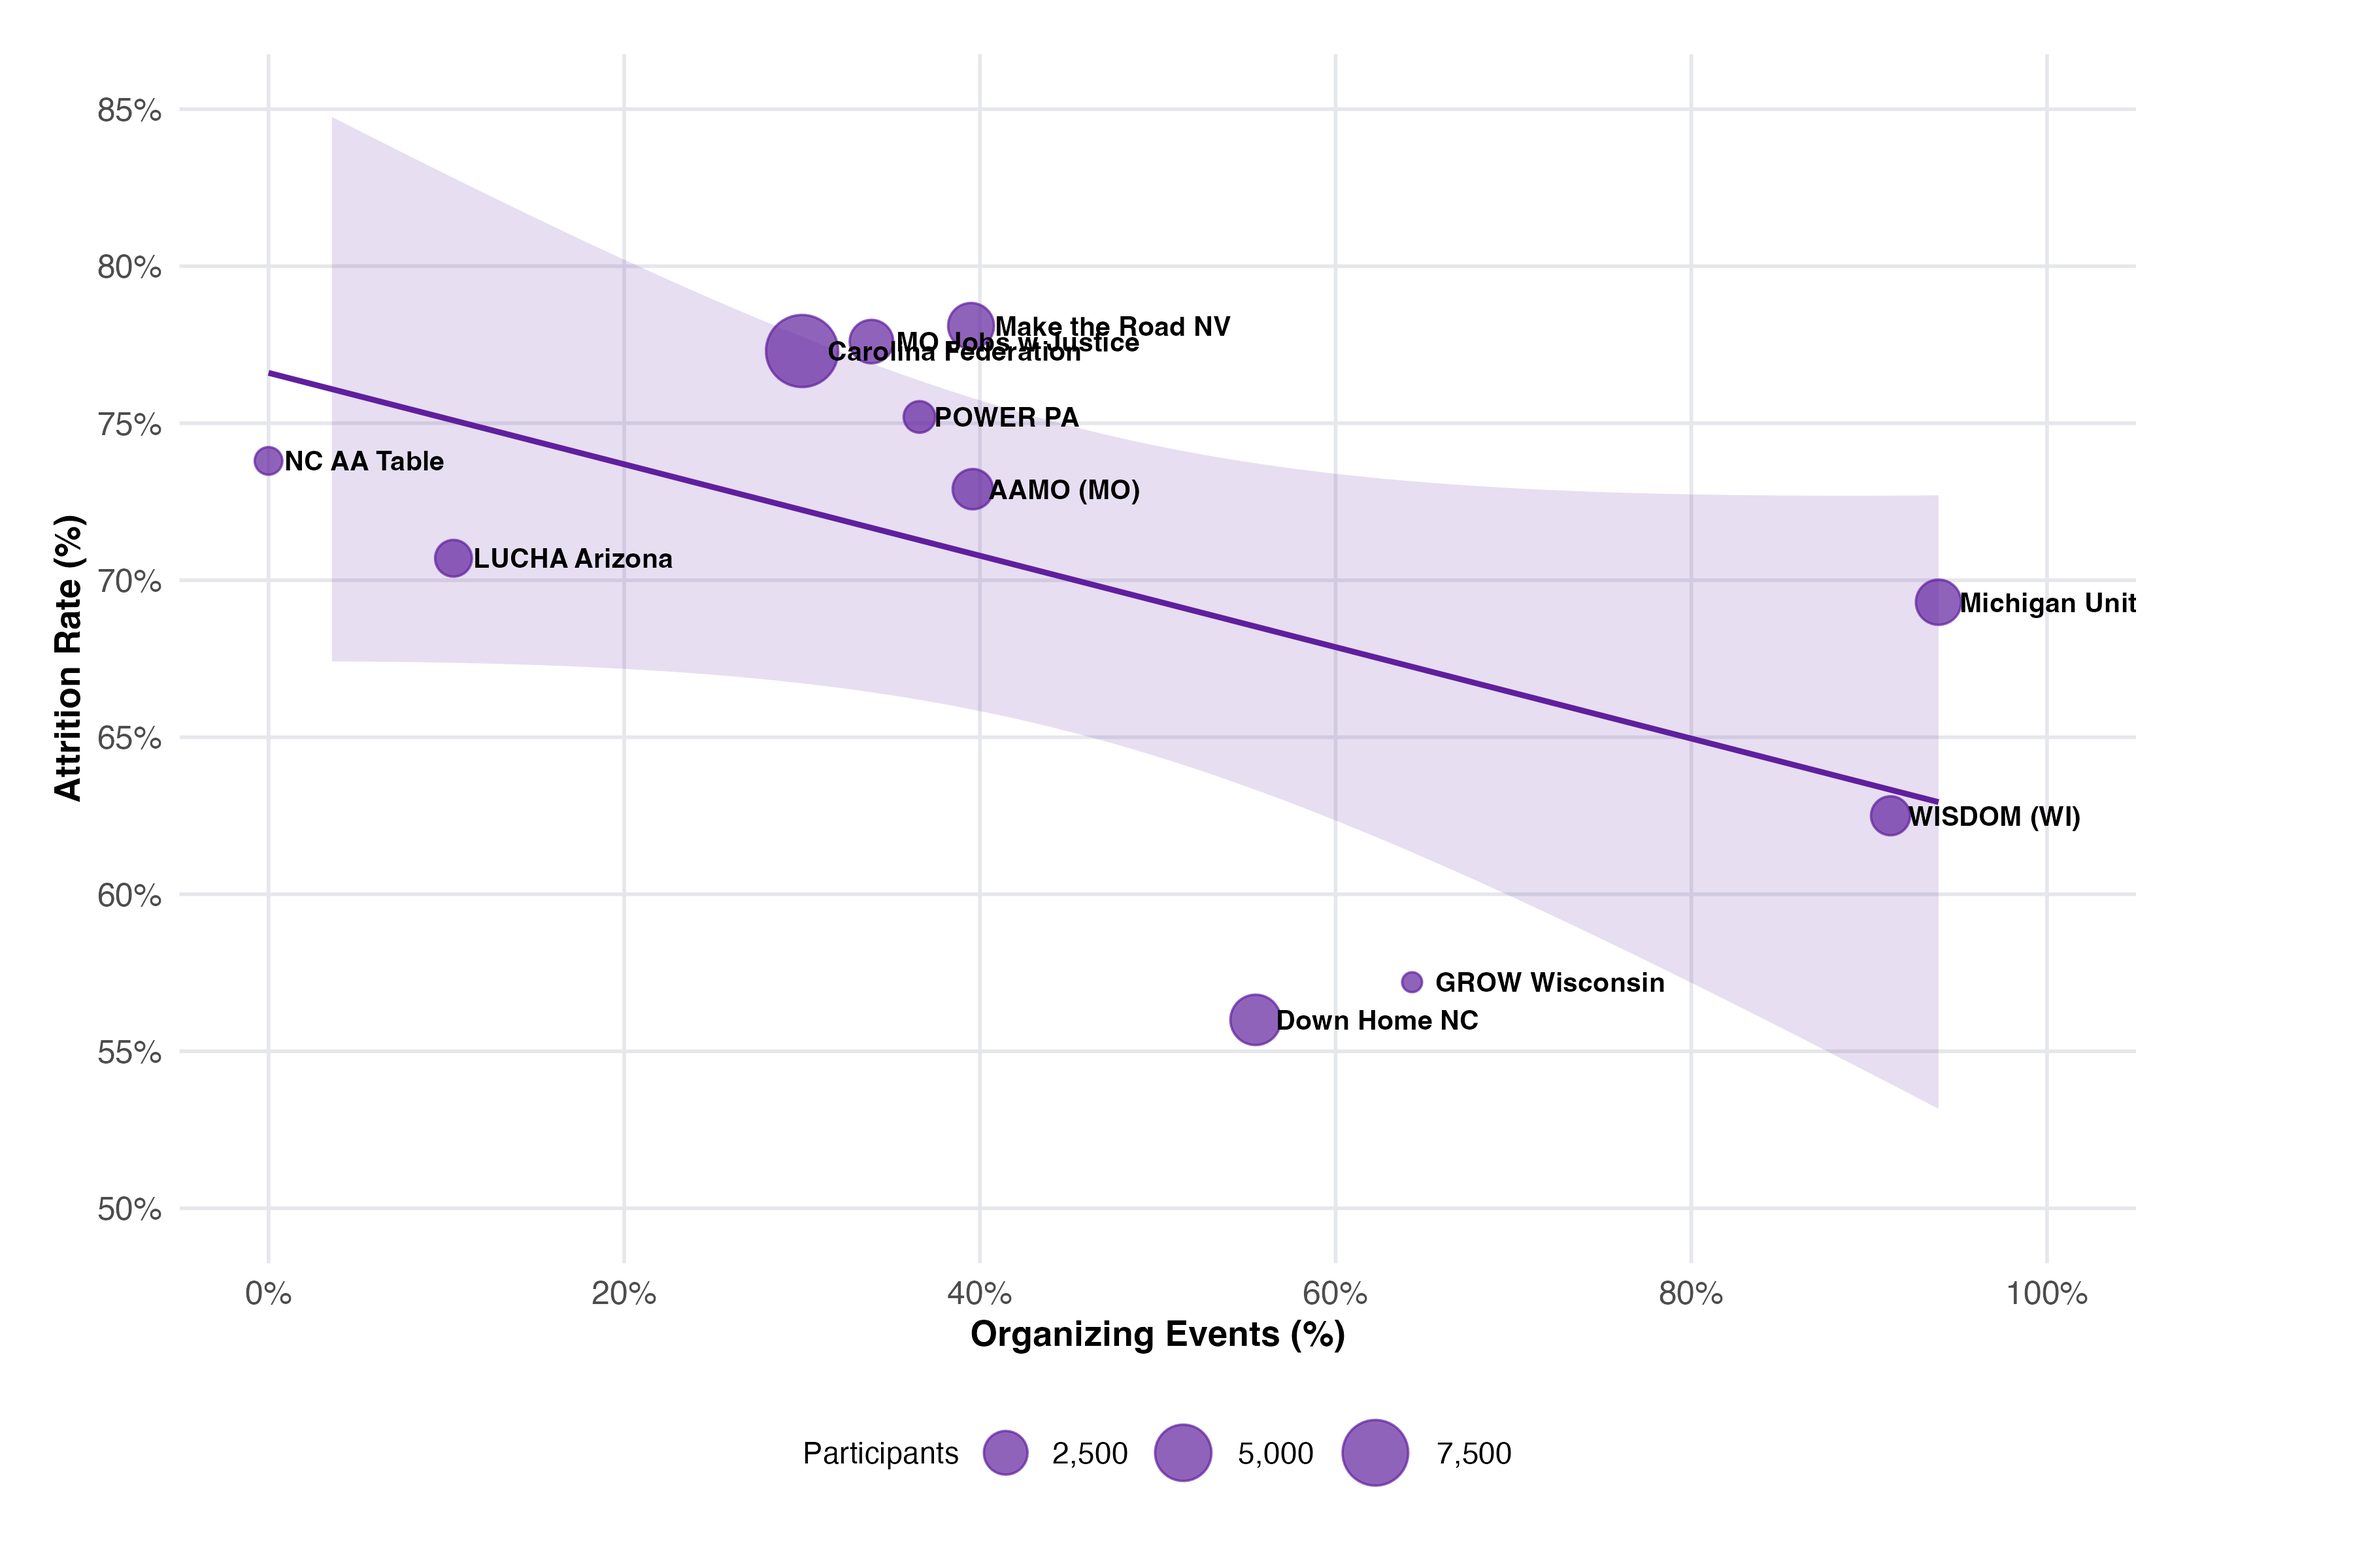
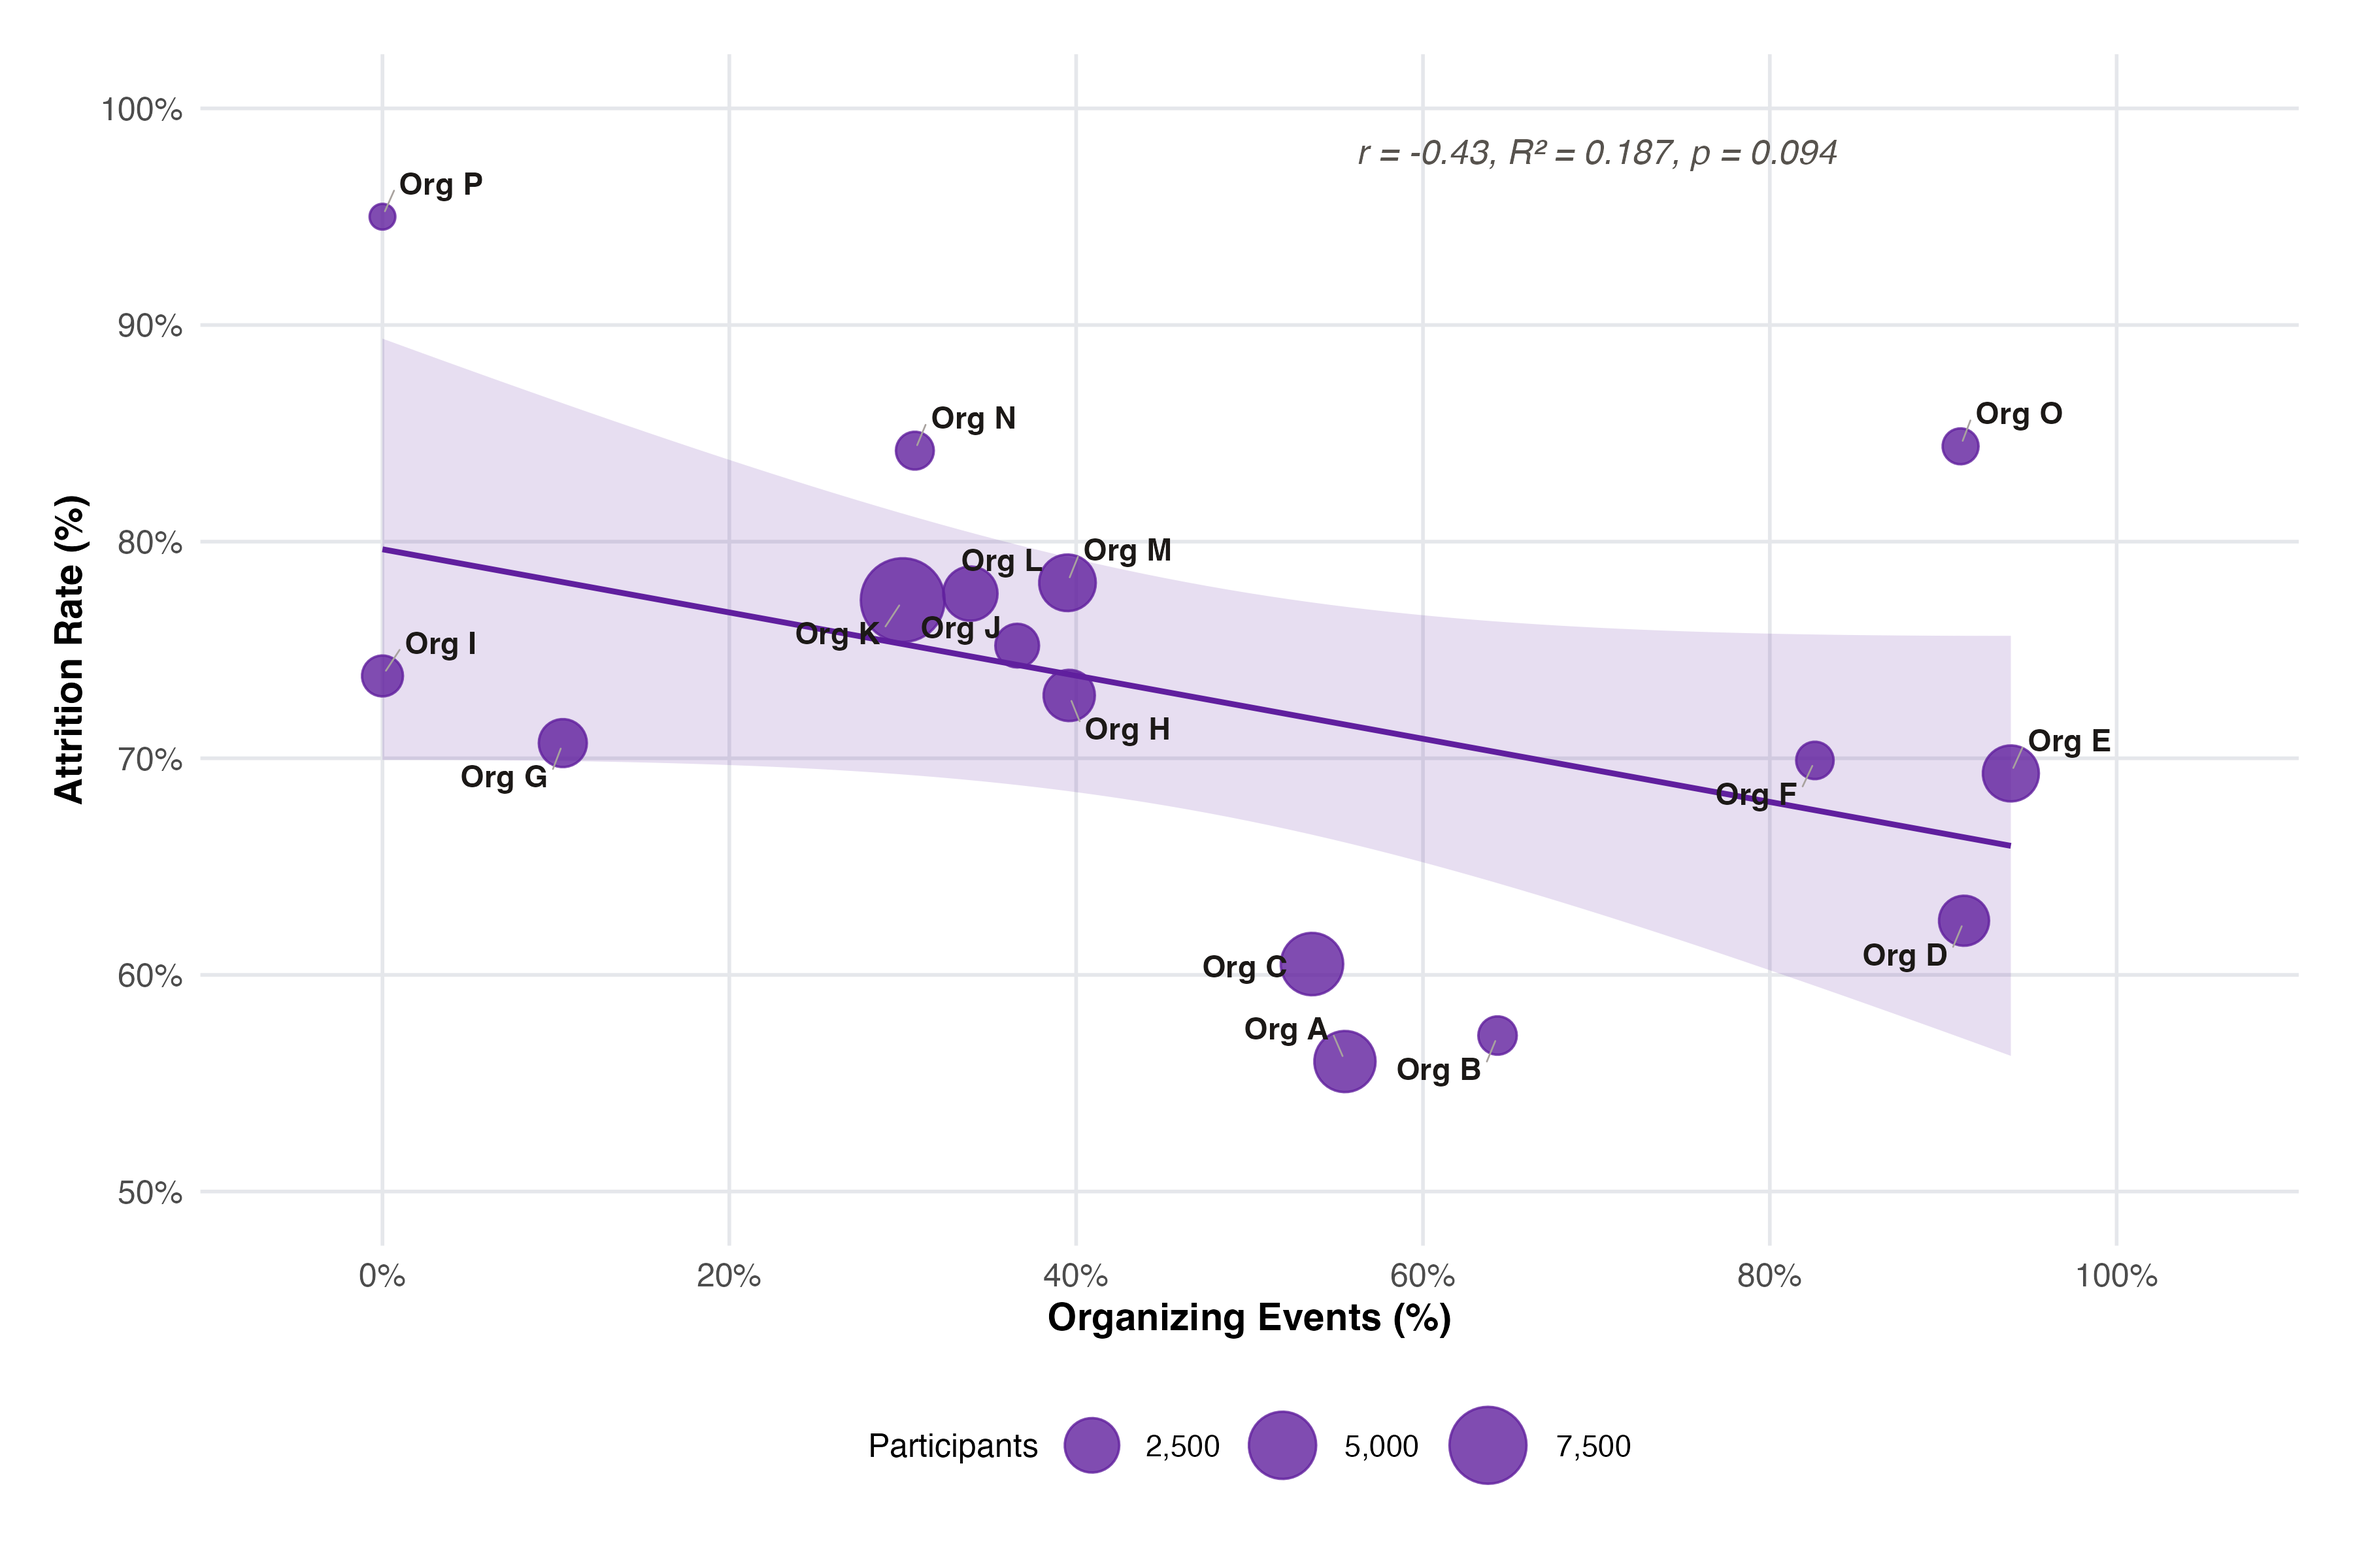
Add person-level attrition analysis and fix state outlines
- Add person-level attrition analysis (N=32,613): first event type → return
  - Chi-squared test: χ² = 197, p < 0.001
  - Odds ratio = 1.41 (41% higher odds of returning if first event = organizing)
- Fix attrition legend to not be animated (removed fragment class)
- Replace hand-drawn state SVGs with real outlines from Wikimedia Commons
- Add new appendix slide (A4) for person-level analysis with two charts
- Update org-level analysis stats (r = -0.43, R² = 0.19, p = 0.094)
- Renumber appendix slides (A3-A7)

🤖 Generated with [Claude Code](https://claude.com/claude-code)

diff --git a/index.html b/index.html
@@ -882,23 +882,23 @@
                     <div class="text" style="font-size: 1.05rem; line-height: 1.5;"><strong>Minnesota</strong> — Faith-based coalitions mobilized rapid response to ICE enforcement, including a 2,000-person rally at the state Capitol.</div>
                 </div>
                 <div class="fragment state-card-img" style="padding: 1.25rem; border-radius: 8px;">
-                    <!-- Ohio outline - recognizable shape with Lake Erie coast -->
-                    <svg viewBox="0 0 120 100" style="width: 55px; height: 46px; flex-shrink: 0;">
-                        <path d="M5 15 Q15 5 35 8 Q55 3 75 10 L85 8 Q95 12 100 20 L105 35 Q108 50 100 65 L90 78 Q80 88 65 92 L50 95 Q35 93 22 85 L10 72 Q3 55 5 40 Z" fill="var(--accent)" stroke="var(--bg)" stroke-width="1.5"/>
+                    <!-- Ohio outline - from Wikimedia Commons public domain -->
+                    <svg viewBox="680 200 60 90" style="width: 40px; height: 55px; flex-shrink: 0;">
+                        <path d="m 685.7,208.8 1.9,-.4 3,1.3 2.1,.6 .7,.9 h 1 l 1,-1.5 1.3,.8 h 1.5 l -.1,1 -3.1,.5 -2,1.1 1.9,.8 1.6,-1.5 2.4,-.4 2.2,1.5 1.5,-.1 2.5,-1.7 3.6,-2.1 5.2,-.3 4.9,-5.9 3.8,-3.1 9.3,-5.1 4.9,29.9 -2.2,1.2 1.4,2.1 -.1,2.2 .6,2 -1.1,3.4 -.1,5.4 -1,3.6 .5,1.1 -.4,2.2 -1.1,.5 -2,3.3 -1.8,2 h -.6 l -1.8,1.7 -1.3,-1.2 -1.5,1.8 -.3,1.2 h -1.3 l -1.3,2.2 .1,2.1 -1,.5 1.4,1.1 v 1.9 l -1,.2 -.7,.8 -1,.5 -.6,-2.1 -1.6,-.5 -1,2.3 -.3,2.2 -1.1,1.3 1.3,3.6 -1.5,.8 -.4,3.5 h -1.5 l -3.2,1.4 -1.2,-2.1 -3.5,-1.4 -.8,-2.9 -.5,-.8 -3.4,1.8 -.6,1.7 h -.9 l -1.3,.7 -1.2,-.8 -3,-.8 -1.9,.8 v 1 l -2.2,-.2 -1.9,-2.1 -2.3,.2 -4.1,-.7 v -1 l -2.2,-3.4 -2.9,-1.2 -1.9,.8 -2.2,-.1 -1.3,-.5 -6.6,-57.2 21.4,-3.5 z" fill="var(--accent)" stroke="var(--bg)" stroke-width="0.8"/>
                     </svg>
                     <div class="text" style="font-size: 1.05rem; line-height: 1.5;"><strong>Ohio</strong> — In Springfield (to protect Haitian immigrants), a church event drew 1,000+ attendees; local organizations passed a City Commission resolution on ICE cooperation.</div>
                 </div>
                 <div class="fragment state-card-img" style="padding: 1.25rem; border-radius: 8px;">
-                    <!-- Maine outline - tall narrow with distinctive eastern coastline -->
-                    <svg viewBox="0 0 70 100" style="width: 38px; height: 55px; flex-shrink: 0;">
-                        <path d="M25 5 L40 3 Q55 8 58 18 L62 28 Q65 38 60 48 L65 55 Q62 65 55 75 L48 85 Q40 95 30 97 L22 94 Q15 88 12 78 L10 65 Q8 50 12 38 L15 25 Q18 12 25 5 Z" fill="var(--accent)" stroke="var(--bg)" stroke-width="1.5"/>
+                    <!-- Maine outline - from Wikimedia Commons public domain -->
+                    <svg viewBox="870 55 50 80" style="width: 32px; height: 50px; flex-shrink: 0;">
+                        <path d="m 875,128.7 .6,4 3.2,2 .8,2.2 2.3,1.4 1.4,-.3 1,-3 -.8,-2.9 1.6,-.9 .5,-2.8 -.6,-1.3 3.3,-1.9 -2.2,-2.3 .9,-2.4 1.4,-2.2 .5,3.2 1.6,-2 1.3,.9 1.2,-.8 v -1.7 l 3.2,-1.3 .3,-2.9 2.5,-.2 2.7,-3.7 v -.7 l -.9,-.5 -.1,-3.3 .6,-1.1 .2,1.6 1,-.5 -.2,-3.2 -.9,.3 -.1,1.2 -1.2,-1.4 .9,-1.4 .6,.1 1.1,-.4 .5,2.8 2,-.3 2.9,.7 v -1 l -1.1,-1.2 1.3,.1 .1,-2.3 .6,.8 .3,1.9 2.1,1.5 .2,-1 .9,-.2 -.3,-.8 .8,-.6 -.1,-1.6 -1.6,-.2 -2,.7 1.4,-1.6 .7,-.8 1.3,-.2 .4,1.3 1.7,1.6 .4,-2.1 2.3,-1.2 -.9,-1.3 .1,-1.7 1.1,.5 h .7 l 1.7,-1.4 .4,-2.3 2.2,.3 .1,-.7 .2,-1.6 .5,1.4 1.5,-1 2.3,-4.1 -.1,-2.2 -1.4,-2 -3,-3.2 h -1.9 l -.8,2.2 -2.9,-3 .3,-.8 v -1.5 l -1.6,-4.5 -.8,-.2 -.7,.4 h -4.8 l -.3,-3.6 -8.1,-26 -7.3,-3.7 -2.9,-.1 -6.7,6.6 -2.7,-1 -1,-3.9 h -2.7 l -6.9,19.5 .7,6.2 -1.7,2.4 -.4,4.6 1.3,3.7 .8,.2 v 1.6 l -1.6,4.5 -1.5,1.4 -1.3,2.2 -.4,7.8 -2.4,-1 -1.5,.4 z" fill="var(--accent)" stroke="var(--bg)" stroke-width="0.5"/>
                     </svg>
                     <div class="text" style="font-size: 1.05rem; line-height: 1.5;"><strong>Maine</strong> — Coordinated advocacy contributed to the end of enhanced federal enforcement operations.</div>
                 </div>
                 <div class="fragment state-card-img" style="padding: 1.25rem; border-radius: 8px;">
-                    <!-- Missouri outline - distinctive bootheel in SE corner -->
-                    <svg viewBox="0 0 120 100" style="width: 60px; height: 50px; flex-shrink: 0;">
-                        <path d="M5 8 L110 8 Q115 12 112 22 L108 35 Q112 48 108 58 L100 68 L95 78 L90 95 L75 92 L70 75 L55 72 Q40 75 25 72 L12 65 Q5 50 8 35 L5 20 Z" fill="var(--accent)" stroke="var(--bg)" stroke-width="1.5"/>
+                    <!-- Missouri outline - from Wikimedia Commons public domain -->
+                    <svg viewBox="480 245 130 100" style="width: 60px; height: 46px; flex-shrink: 0;">
+                        <path d="m 555.3,248.9 -1.1,-1.1 -.6,-1.6 -1.7,-1.3 -14.3,.8 -27.2,1.2 -25.9,-.1 1.3,1.3 -.3,1.4 2.1,3.7 3.9,6.3 2.9,3 2,.6 .9,-1 1.5,2.1 -.1,1.2 -2.7,2.6 -.5,2.3 2.5,2.5 2.6,4.7 3.2,.7 .5,48.1 .2,10.8 39.1,-.7 39.8,-2 1.6,2.5 v 2.2 l -1.7,1.5 -2.8,5.1 11.2,-.8 1,-2 1.2,-.5 v -.7 l -1.2,-1.1 -.6,-1 1.7,.2 .8,-.7 -1.4,-1.5 1.4,-.5 .1,-1 -.6,-1 v -1.3 l -.7,-.7 .2,-1 h 1.1 l .7,.7 -.3,1 .8,.7 .8,-1 1,-2.7 1.4,.9 .7,-.4 1.2,-4.1 -1,-1 1,-2 .2,-.9 -1.3,-.8 h -2.8 l -1.4,-1.5 -1.8,-3.8 v -1.9 l .8,-.6 .1,-1.3 -1.7,-1.9 -.9,-2.5 -2.7,-4.1 -4.8,-1.3 -7.4,-7.1 -.4,-2.4 2.8,-7.6 -.4,-1.9 1.2,-1.1 v -1.3 l -2.8,-1.5 -3,-.7 -3.4,1.2 -1.3,-2.3 .6,-1.9 -.7,-2.4 -8.6,-8.4 -2.2,-1.5 -2.5,-5.9 -1.2,-5.4 1.4,-3.7 z" fill="var(--accent)" stroke="var(--bg)" stroke-width="0.6"/>
                     </svg>
                     <div class="text" style="font-size: 1.05rem; line-height: 1.5;"><strong>Missouri</strong> — POLIS organizations collected 3x the required signatures to place an anti-gerrymandering measure on the ballot.</div>
                 </div>
@@ -964,7 +964,7 @@
             <div style="background: white; border: 1px solid var(--border); border-radius: 8px; padding: 1.25rem;">
                 <div style="display: grid; gap: 0.4rem; font-size: 0.9rem;">
                     <!-- Aggregate donut legend -->
-                    <div class="fragment" style="display: flex; justify-content: center; gap: 2rem; margin-bottom: 0.75rem; font-size: 0.9rem;">
+                    <div style="display: flex; justify-content: center; gap: 2rem; margin-bottom: 0.75rem; font-size: 0.9rem;">
                         <div style="display: flex; align-items: center; gap: 0.4rem;">
                             <div style="width: 12px; height: 12px; background: #A8A29E; border-radius: 2px;"></div>
                             <span><strong>Grey</strong> — 1 event (exit)</span>
@@ -1087,7 +1087,8 @@
             <p class="small-text" style="margin-top: 0.75rem; text-align: center;">N=41,625 participants across 18 organizations</p>
 
             <p class="small-text" style="margin-top: 0.5rem; text-align: center;">
-                <a href="#slide-balance" style="color: var(--accent);">Appendix: Balance vs Attrition →</a> ·
+                <a href="#slide-first-event" style="color: var(--accent);">First Event Analysis (N=32k) →</a> ·
+                <a href="#slide-balance" style="color: var(--accent);">Org-Level (N=16) →</a> ·
                 <a href="#slide-att-81" style="color: var(--accent);">81% chart →</a> ·
                 <a href="#slide-att-60" style="color: var(--accent);">60% chart →</a>
             </p>
@@ -1821,8 +1822,8 @@
         <div class="corner corner-br"></div>
 
         <div class="content wide">
-            <h2 style="font-size: clamp(1.2rem, 2.2vw, 1.6rem); margin-bottom: 0.5rem;">Event Portfolio Balance vs Attrition</h2>
-            <p style="font-size: 1rem; color: var(--text-secondary); margin-bottom: 1rem;">Correlation: r = -0.54 (more organizing events → lower attrition)</p>
+            <h2 style="font-size: clamp(1.2rem, 2.2vw, 1.6rem); margin-bottom: 0.5rem;">Event Portfolio Balance vs Attrition (Org-Level)</h2>
+            <p style="font-size: 1rem; color: var(--text-secondary); margin-bottom: 1rem;">r = -0.43, R² = 0.19, p = 0.094 (N = 16 organizations)</p>
 
             <div style="text-align: center;">
                 <img src="assets/balance-attrition-chart.png" alt="Scatter plot showing organizing percentage vs attrition rate" style="max-width: 100%; max-height: 60vh; border-radius: 8px; box-shadow: 0 4px 16px rgba(0,0,0,0.1);">
@@ -1831,6 +1832,35 @@
             <p class="small-text" style="margin-top: 1rem; text-align: center;"><a href="#slide-13" style="color: var(--accent);">← Back to Attrition Finding</a></p>
         </div>
         <span class="slide-number">A3</span>
+    </section>
+
+    <!-- ============================================
+         APPENDIX: FIRST EVENT TYPE
+         ============================================ -->
+    <section class="slide" id="slide-first-event" data-slide="first-event" data-section="appendix">
+        <div class="corner corner-tl"></div>
+        <div class="corner corner-tr"></div>
+        <div class="corner corner-bl"></div>
+        <div class="corner corner-br"></div>
+
+        <div class="content wide">
+            <h2 style="font-size: clamp(1.2rem, 2.2vw, 1.6rem); margin-bottom: 0.5rem;">First Event Type → Return (Person-Level)</h2>
+            <p style="font-size: 1rem; color: var(--text-secondary); margin-bottom: 1rem;">χ² = 197, p < 0.001, OR = 1.41 (N = 32,613 participants)</p>
+
+            <div style="display: grid; grid-template-columns: 1fr 1fr; gap: 1.5rem;">
+                <div style="text-align: center;">
+                    <img src="assets/first-event-retention.png" alt="Bar chart comparing return rates by first event type" style="max-width: 100%; max-height: 55vh; border-radius: 8px; box-shadow: 0 4px 16px rgba(0,0,0,0.1);">
+                    <p class="small-text" style="margin-top: 0.5rem;">Participants whose first event was organizing had 41% higher odds of returning</p>
+                </div>
+                <div style="text-align: center;">
+                    <img src="assets/first-event-by-org.png" alt="Scatter plot showing organizing vs mobilizing return rates by org" style="max-width: 100%; max-height: 55vh; border-radius: 8px; box-shadow: 0 4px 16px rgba(0,0,0,0.1);">
+                    <p class="small-text" style="margin-top: 0.5rem;">Effect consistent across organizations (most points above diagonal)</p>
+                </div>
+            </div>
+
+            <p class="small-text" style="margin-top: 1rem; text-align: center;"><a href="#slide-13" style="color: var(--accent);">← Back to Attrition Finding</a></p>
+        </div>
+        <span class="slide-number">A4</span>
     </section>
 
     <!-- ============================================
@@ -1851,7 +1881,7 @@
 
             <p class="small-text" style="margin-top: 1rem; text-align: center;"><a href="#slide-13" style="color: var(--accent);">← Back to Attrition Finding</a></p>
         </div>
-        <span class="slide-number">A4</span>
+        <span class="slide-number">A5</span>
     </section>
 
     <!-- ============================================
@@ -1872,7 +1902,7 @@
 
             <p class="small-text" style="margin-top: 1rem; text-align: center;"><a href="#slide-13" style="color: var(--accent);">← Back to Attrition Finding</a></p>
         </div>
-        <span class="slide-number">A5</span>
+        <span class="slide-number">A6</span>
     </section>
 
     <!-- ============================================
@@ -1893,7 +1923,7 @@
 
             <p class="small-text" style="margin-top: 1rem; text-align: center;">NC purple line leader · Led team that helped elect first Black Sheriff in Granville County</p>
         </div>
-        <span class="slide-number">A6</span>
+        <span class="slide-number">A7</span>
     </section>
 
     <script>
